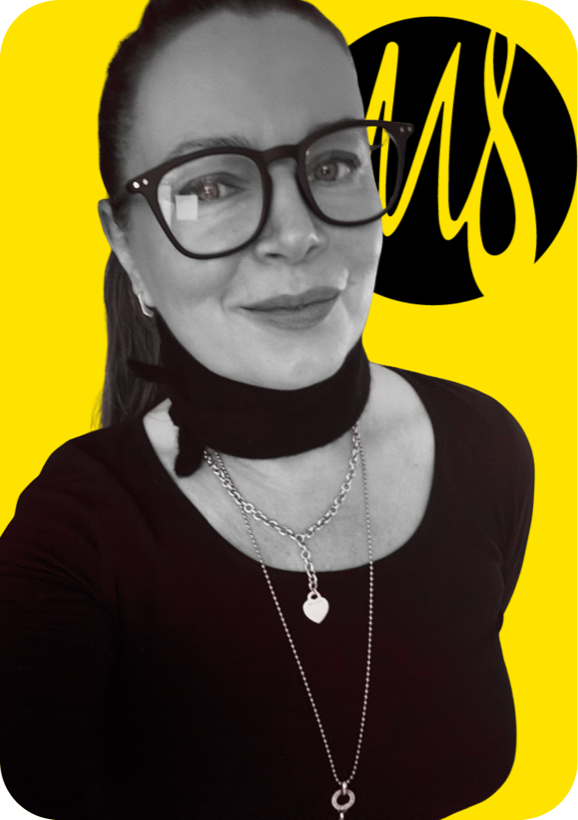
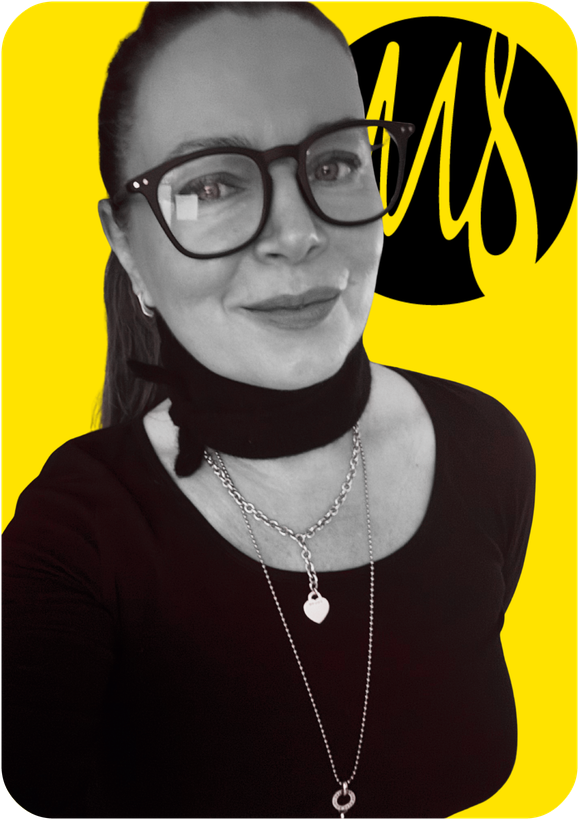
Header-Sub Satz-Umbrueche (kein Von/Du allein), Floating-CTA erst nach Scroll (keine Ueberlappung), Selfie weisser Rand entfernt (sauberer Rundmask), Handschrift-Link auf Statement-Unterschrift fokussiert, Film->Imagefilm, text-wrap pretty

diff --git a/index.html b/index.html
@@ -66,7 +66,8 @@ html { scroll-behavior: smooth; overflow-x: hidden; }
 body { background: var(--black); color: var(--white); font-family: 'Georgia', serif; overflow-x: hidden; }
 
 /* FLOATING CTA */
-.float-cta { position: fixed; bottom: 2rem; right: 2rem; z-index: 100; display: flex; align-items: center; gap: 0.8rem; background: rgba(7,7,7,0.9); border: 1px solid rgba(255,227,0,0.3); backdrop-filter: blur(12px); padding: 0.75rem 1.4rem; text-decoration: none; transition: border-color 0.25s; }
+.float-cta { position: fixed; bottom: 2rem; right: 2rem; z-index: 100; display: flex; align-items: center; gap: 0.8rem; background: rgba(7,7,7,0.9); border: 1px solid rgba(255,227,0,0.3); backdrop-filter: blur(12px); padding: 0.75rem 1.4rem; text-decoration: none; opacity: 0; transform: translateY(10px); pointer-events: none; transition: opacity 0.3s ease, transform 0.3s ease, border-color 0.25s; }
+.float-cta.show { opacity: 1; transform: none; pointer-events: auto; }
 .float-cta:hover { border-color: var(--gold); }
 .float-cta-dot { width: 6px; height: 6px; background: var(--gold); border-radius: 50%; flex-shrink: 0; animation: blink 2s ease-in-out infinite; }
 @keyframes blink { 0%,100%{opacity:1;transform:scale(1)}50%{opacity:0.35;transform:scale(0.6)} }
@@ -86,6 +87,7 @@ body { background: var(--black); color: var(--white); font-family: 'Georgia', se
 @media(prefers-reduced-motion: reduce){ .hero-logo { animation: none; opacity: 1; } }
 .hero-head { font-size: clamp(1.5rem,3.6vw,3rem); font-weight: 700; line-height: 1.16; letter-spacing: -0.01em; color: var(--white); margin-bottom: 1.4rem; text-wrap: balance; }
 .hero-sub { font-size: clamp(1rem,1.6vw,1.25rem); line-height: 1.55; color: rgba(240,236,227,0.68); max-width: 42ch; margin: 0 auto 2.2rem; }
+.hero-sub, .anti-stat-sub, .who-item-text, .skills-sub, .m8-sub, .case-line { text-wrap: pretty; }
 .hero-signature { margin-bottom: 2rem; }
 .hero-sig-name { display: block; font-size: clamp(1.05rem,1.6vw,1.3rem); font-weight: 800; letter-spacing: -0.01em; color: var(--white); }
 .hero-sig-role { display: block; font-family:'Helvetica Neue',Arial,sans-serif; font-size: 0.6rem; letter-spacing: 0.22em; text-transform: uppercase; color: var(--gold); margin-top: 0.55rem; }
@@ -387,7 +389,7 @@ body.nav-open .nav-overlay { opacity: 1; pointer-events: auto; }
   <div class="hero-content">
     <img class="hero-logo" src="assets/m8-logo-studio.png" alt="M8 Studio · Human in the Loop" width="260" height="260">
     <h1 class="hero-head">Marken, die bleiben. Nicht, weil sie laut sind, sondern weil sie sitzen.</h1>
-    <p class="hero-sub">Head of Creative &amp; Handschrift aus Berlin. Von Konzept bis Kampagne, alles aus einer Hand. Du zahlst das Ergebnis, nicht die Zeit.</p>
+    <p class="hero-sub">Head of Creative &amp; Handschrift aus Berlin.<br>Von Konzept bis Kampagne, alles aus einer Hand.<br>Du zahlst das Ergebnis, nicht die Zeit.</p>
     <div class="hero-signature">
       <span class="hero-sig-name">Michaela Al-Badri</span>
       <span class="hero-sig-role">Head of Creative · Handschriftspezialistin · der Mensch im Loop</span>
@@ -429,7 +431,7 @@ body.nav-open .nav-overlay { opacity: 1; pointer-events: auto; }
     <span class="anti-stat-num"><span class="count" data-to="1">1</span></span>
     <div>
       <span class="anti-stat-main">Ansprechpartnerin für alles.</span>
-      <p class="anti-stat-sub">Idee, Logo, Kampagne, Film, von Anfang bis Schnitt aus einer Hand. Das hält die Wege kurz und die Abstimmung einfach.</p>
+      <p class="anti-stat-sub">Idee, Logo, Kampagne, Imagefilm, von Anfang bis Schnitt aus einer Hand. Das hält die Wege kurz und die Abstimmung einfach.</p>
     </div>
   </div>
   <div class="anti-stat r d1">
@@ -659,7 +661,7 @@ body.nav-open .nav-overlay { opacity: 1; pointer-events: auto; }
     <span class="need">In einer Welt, die alles automatisiert, ist das Handgemachte das Statement. Unterschrift, Signet, handgeschriebenes Logo, für Marken, die den Unterschied wollen.</span>
     <a href="mailto:[email redacted]?subject=Handschrift-Projekt%20über%20M8%20Studio" class="cta-arrow">Handschrift-Projekt anfragen →</a>
   </div>
-  <p class="hw-course-note r">Du willst es selbst können? Den Einstieg in meine Welt gibt's auch für dich: <a href="https://mikam8.github.io/handschrift-kurs/" target="_blank" rel="noopener">Mein Handschrift-Kurs →</a></p>
+  <p class="hw-course-note r">Du willst deine eigene Unterschrift, die ein Statement setzt? Genau das entwickelst du in meinem Kurs: <a href="https://mikam8.github.io/handschrift-kurs/" target="_blank" rel="noopener">Deine Signatur entwickeln →</a></p>
 </section>
 
 <div class="div"></div>
@@ -669,12 +671,12 @@ body.nav-open .nav-overlay { opacity: 1; pointer-events: auto; }
   <div class="eyebrow">04 · Was du bekommst</div>
   <div class="skills-lead r">
     <p class="skills-claim">Eigentlich nur eine Sache:<br><span class="em">Ich verstehe, was du meinst,</span> bevor du es ausgesprochen hast.</p>
-    <p class="skills-sub">Brand, Film, Logo, Kampagne, Handschrift, das ist mein Handwerk. Es steht im Dienst einer einzigen Frage: Was braucht deine Marke wirklich? Da fängt meine Arbeit an, nicht bei der Software.</p>
+    <p class="skills-sub">Brand, Imagefilm, Logo, Kampagne, Handschrift, das ist mein Handwerk. Es steht im Dienst einer einzigen Frage: Was braucht deine Marke wirklich? Da fängt meine Arbeit an, nicht bei der Software.</p>
   </div>
   <div class="who-items benefits-grid">
     <div class="who-item r">
       <div class="who-item-label">Eine Ansprechpartnerin</div>
-      <div class="who-item-text">Idee, Konzept, Design, Film, Handschrift. Alles aus einer Hand, kein Pingpong zwischen fünf Abteilungen. Du erklärst einmal, ich liefere.</div>
+      <div class="who-item-text">Idee, Konzept, Design, Imagefilm, Handschrift. Alles aus einer Hand, kein Pingpong zwischen fünf Abteilungen. Du erklärst einmal, ich liefere.</div>
     </div>
     <div class="who-item r d1">
       <div class="who-item-label">Ein ehrliches Wort</div>
@@ -718,7 +720,7 @@ body.nav-open .nav-overlay { opacity: 1; pointer-events: auto; }
     <div class="m8-text r">
       <div class="eyebrow">M8 Studio</div>
       <p class="m8-lead">Hinter M8 Studio steht <em>Michaela Al-Badri</em> und ein eingespieltes Netzwerk aus Kreativen und Freelancern.</p>
-      <p class="m8-sub">Konzept, Film, Brand Design, Text, Code, was dein Projekt braucht, wird zusammengestellt. Eine Ansprechpartnerin, das richtige Team dahinter. <span class="em">Alles ist möglich. Es muss nur gemacht werden.</span></p>
+      <p class="m8-sub">Konzept, Imagefilm, Brand Design, Text, Code, was dein Projekt braucht, wird zusammengestellt. Eine Ansprechpartnerin, das richtige Team dahinter. <span class="em">Alles ist möglich. Es muss nur gemacht werden.</span></p>
       <a href="mailto:[email redacted]" class="btn">Projekt besprechen</a>
     </div>
   </div>
@@ -820,6 +822,7 @@ document.querySelectorAll('.count').forEach(el => countObs.observe(el));
 // Scroll-Fortschrittsbalken
 const bar = document.getElementById('progress');
 const toTop = document.getElementById('toTop');
+const floatCta = document.querySelector('.float-cta');
 const reduce = matchMedia('(prefers-reduced-motion: reduce)').matches;
 let ticking = false;
 function onScroll() {
@@ -832,6 +835,7 @@ function onScroll() {
       bar.style.width = (h > 0 ? (y / h) * 100 : 0) + '%';
     }
     if (toTop) toTop.classList.toggle('show', y > 500);
+    if (floatCta) floatCta.classList.toggle('show', y > 500);
     ticking = false;
   });
 }